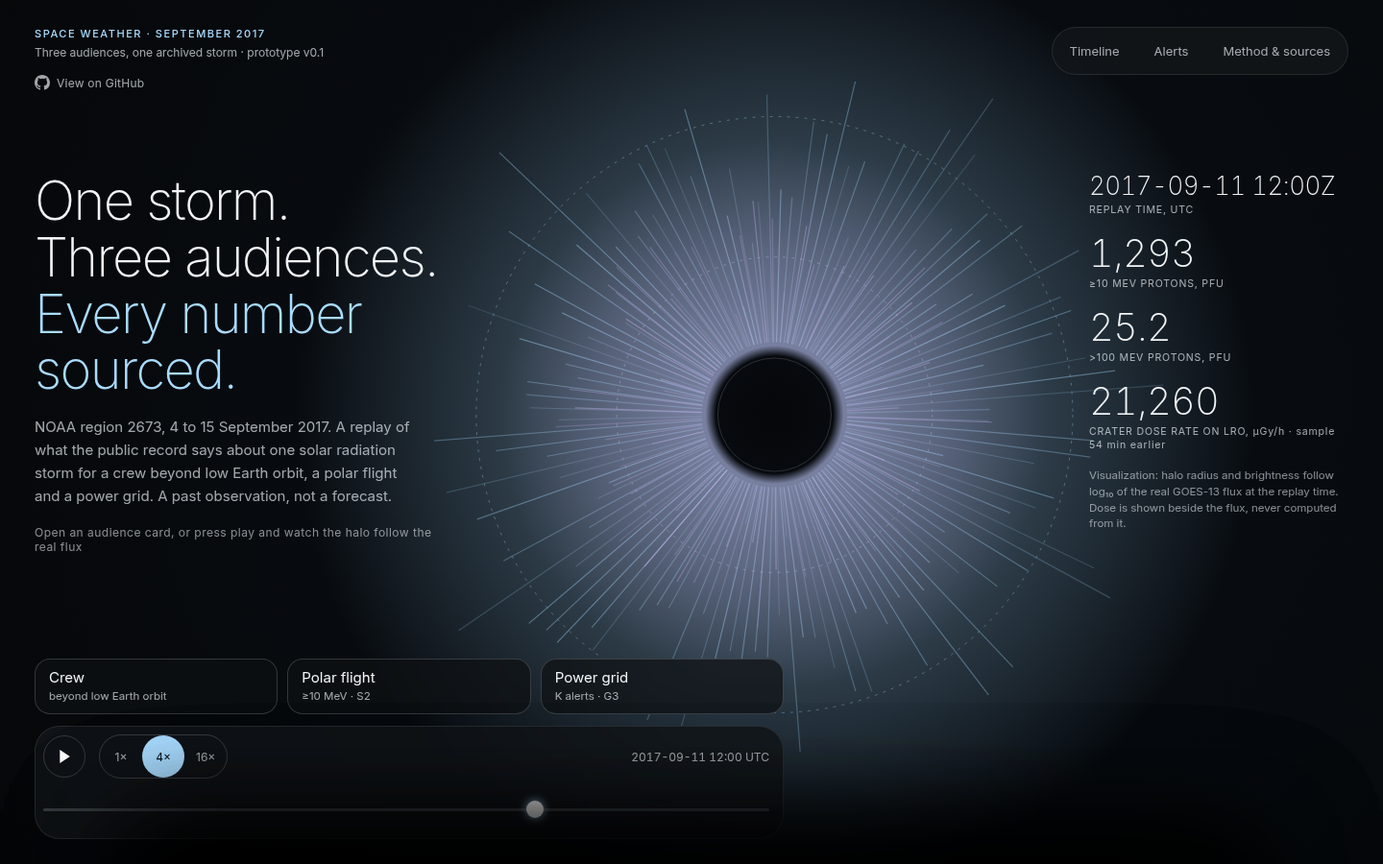
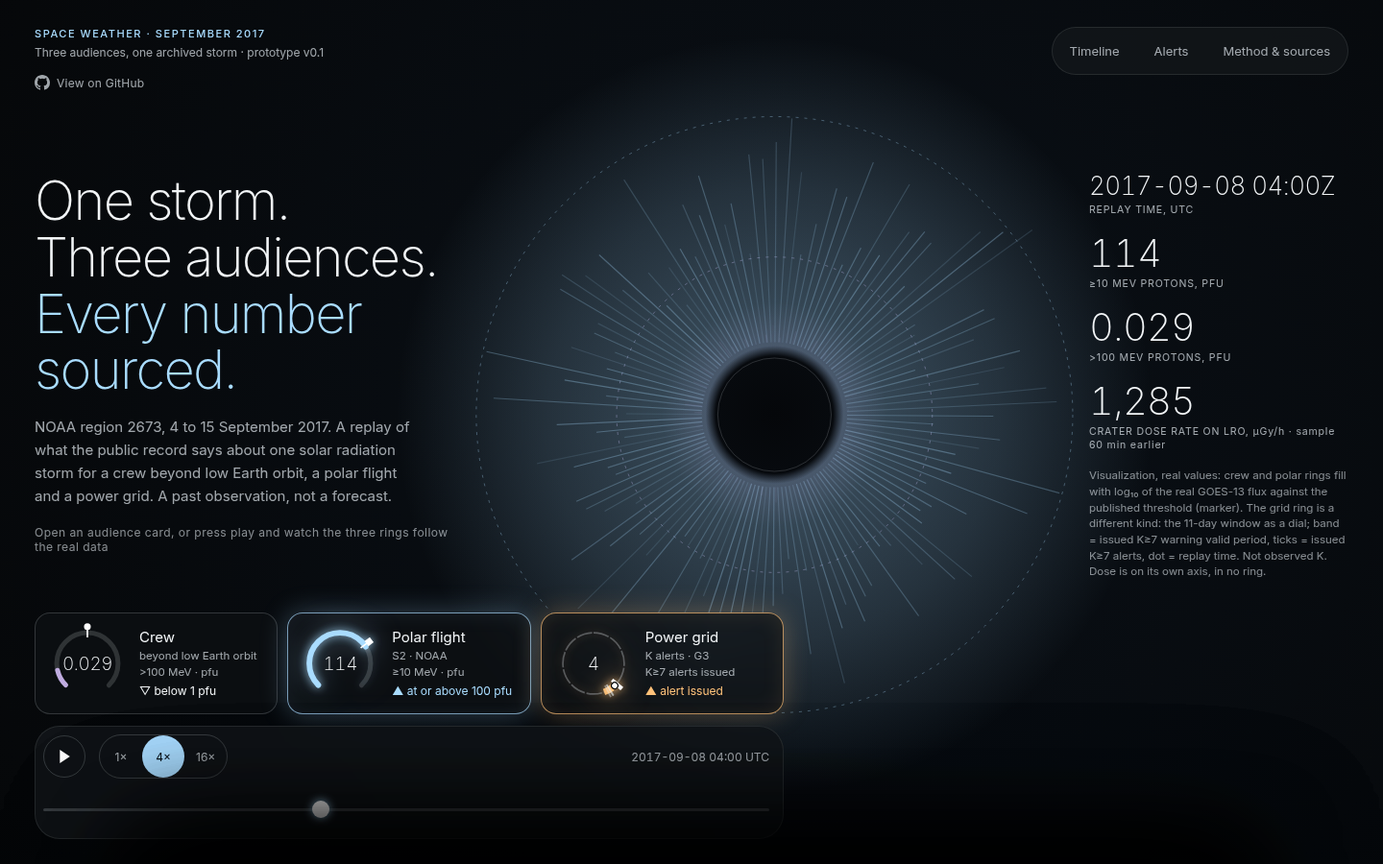
space-weather: three audience rings in the hero (crew, polar flight, grid)
Crew ring: real >100 MeV flux on a log axis with a marker at the 1 pfu
threshold. Polar ring: real >=10 MeV flux, marker at 100 pfu. Grid ring: a
different kind of state, an 11-day dial of issued K>=7 alerts and warning
valid periods (not observed K). Each ring shows label, value or state with
unit, threshold, an at-or-above glow, n/a with no data, and opens its card
(button, aria label, 44 px, focus ring). Dose stays out of every ring.
Writes only on change; reduced motion respected.

Add test_rings.js (13 fixed ?h= times, values recomputed from storm.json),
extend overflow and contrast tests, new screenshots, README.

diff --git a/space-weather/web/index.html b/space-weather/web/index.html
@@ -34,10 +34,30 @@ body.sheet-open .hero-copy,body.layer-open .hero-copy,body.sheet-open .stage,bod
 .live .k{display:block;font-size:10.5px;letter-spacing:.08em;text-transform:uppercase;color:var(--mute);margin-top:3px;line-height:1.35}
 .viz{font-size:11.5px;color:var(--faint);line-height:1.45}
 .auds{display:grid;grid-template-columns:repeat(3,minmax(0,1fr));gap:10px}
-.aud{min-height:56px;text-align:left;padding:10px 14px;border-radius:16px;border:1px solid var(--line2);background:var(--glass);backdrop-filter:blur(14px);-webkit-backdrop-filter:blur(14px);transition:border-color .25s,background-color .25s;min-width:0}
-.aud:hover{border-color:var(--ice);background:rgba(169,220,255,.07)}
+.aud{--c:var(--ice);min-height:56px;text-align:left;padding:10px 12px;border-radius:16px;border:1px solid var(--line2);background:var(--glass);backdrop-filter:blur(14px);-webkit-backdrop-filter:blur(14px);transition:border-color .35s,background-color .35s,box-shadow .5s;min-width:0;display:grid;grid-template-columns:auto minmax(0,1fr);align-items:center;gap:4px 12px;color:var(--ink)}
+.aud[data-aud=crew]{--c:#d9c2ff;--cr:217,194,255}.aud[data-aud=polar]{--c:#a9dcff;--cr:169,220,255}.aud[data-aud=grid]{--c:#ffc27a;--cr:255,194,122}
+.aud:hover{border-color:var(--c);background:rgba(var(--cr),.07)}
+.aud:focus-visible{outline:2px solid #fff;outline-offset:3px}
+.aud.hot{border-color:rgba(var(--cr),.7);box-shadow:0 0 28px rgba(var(--cr),.28),inset 0 0 22px rgba(var(--cr),.1)}
 .aud b{display:block;font-weight:400;font-size:15px;line-height:1.25}
-.aud span{display:block;font-size:11.5px;color:var(--mute);margin-top:2px;line-height:1.3}
+.aud .t span{display:block;font-size:11.5px;color:var(--mute);margin-top:2px;line-height:1.3}
+.aud .t .st{color:var(--ink);font-size:12px;margin-top:4px}
+.aud.hot .t .st{color:var(--c)}
+.gg{position:relative;display:block;width:84px;height:84px;flex:none}
+.gg svg{display:block;width:100%;height:100%;overflow:visible;transition:filter .5s}
+.aud.hot .gg svg{filter:drop-shadow(0 0 5px rgba(var(--cr),.85)) drop-shadow(0 0 14px rgba(var(--cr),.5))}
+.gg .rv{position:absolute;left:50%;top:50%;transform:translate(-50%,-50%);font-size:19px;line-height:1;white-space:nowrap;text-align:center;max-width:62%}
+.gg .rv .na{font-size:15px}
+.rg-track{fill:none;stroke:rgba(235,242,247,.16);stroke-width:6;stroke-linecap:round}
+.rg-fill{fill:none;stroke:var(--c);stroke-width:6;stroke-linecap:round;opacity:.85}
+.aud.hot .rg-fill{opacity:1;stroke-width:7}
+.rg-mk{stroke:#fff;stroke-width:2;fill:#fff}
+.rg-day{fill:none;stroke:rgba(235,242,247,.3);stroke-width:2}
+.rg-band{fill:none;stroke:var(--c);stroke-width:8;opacity:.4}
+.rg-band.on{opacity:.95}
+.rg-al{stroke:rgba(235,242,247,.4);stroke-width:2}.rg-al.on{stroke:#fff;stroke-width:2.5}
+.rg-head{fill:#fff;stroke:#050607;stroke-width:1.5}
+.aud[data-state=na] .rg-fill,.aud[data-state=na] .rg-band,.aud[data-state=na] .rg-head,.aud[data-state=na] .rg-mk,.aud[data-state=na] .rg-al{display:none}
 .dock{display:flex;align-items:center;gap:10px 14px;flex-wrap:wrap;padding:8px 14px 8px 8px;border-radius:26px;background:rgba(18,22,26,.82);border:1px solid var(--line);backdrop-filter:blur(14px);-webkit-backdrop-filter:blur(14px)}
 .dock .scrub{flex:1 1 100%;order:5}
 .play{width:44px;height:44px;min-width:44px}
@@ -90,7 +110,9 @@ code.h{font-family:ui-monospace,monospace;font-size:11px;color:#a9dcff;overflow-
   .live .n{font-size:40px}
   .live .viz{display:block}
 }
-@media (max-width:900px) and (max-height:700px){.viz{display:none}}
+@media (max-width:900px){.aud{padding:8px 6px;grid-template-columns:minmax(0,1fr);justify-items:center;text-align:center;gap:4px}.gg{width:72px;height:72px}.gg .rv{font-size:16px}.aud .t .opt{display:none}}
+@media (max-width:900px) and (max-height:700px){.viz{display:none}.aud .t .m{display:none}}
+@media (max-width:900px) and (max-height:780px){.live .it:has(#r-f10),.live .it:has(#r-f100){display:none}.live{grid-template-columns:minmax(0,1fr) minmax(0,1fr)}.live .it:has(#r-time){grid-column:1/-1}}
 @media (max-width:520px){
   .top{padding:14px 14px}
   .nav{width:100%}
@@ -98,12 +120,14 @@ code.h{font-family:ui-monospace,monospace;font-size:11px;color:#a9dcff;overflow-
   .hero-copy{top:166px;left:14px;right:14px}
   .hero-copy h1{font-size:28px}
   .stage{left:14px;right:14px}
-  .aud{padding:8px 10px}.aud b{font-size:14px}.aud span{font-size:11px}
+  .gg{width:64px;height:64px}.gg .rv{font-size:14px}.gg .rv .na{font-size:12px}
+  .aud{padding:8px 4px}.aud b{font-size:14px}.aud .t span{font-size:10.5px}.aud .t .st{font-size:10.5px;margin-top:3px}
   .dock{padding:6px 10px 6px 6px}
   .stamp{display:none}
   .live .k{font-size:10px}
   .viz{font-size:10.5px}
 }
+@media (max-width:900px) and (max-height:700px){.gg{width:54px;height:54px}.gg .rv{font-size:12px}.gg .rv .na{font-size:11px}.aud{padding:6px 4px;gap:2px}.aud .t .st{margin-top:2px}.stage{gap:8px}}
 </style>
 </head>
 <body>
@@ -122,7 +146,7 @@ code.h{font-family:ui-monospace,monospace;font-size:11px;color:#a9dcff;overflow-
 <section class="hero-copy">
   <h1>One storm.<br>Three audiences.<br><em>Every number sourced.</em></h1>
   <p>NOAA region 2673, 4 to 15 September 2017. A replay of what the public record says about one solar radiation storm for a crew beyond low Earth orbit, a polar flight and a power grid. A past observation, not a forecast.</p>
-  <div class="hint">Open an audience card, or press play and watch the halo follow the real flux</div>
+  <div class="hint">Open an audience card, or press play and watch the three rings follow the real data</div>
 </section>
 
 <div class="stage" id="stage">
@@ -131,12 +155,12 @@ code.h{font-family:ui-monospace,monospace;font-size:11px;color:#a9dcff;overflow-
     <div class="it"><span class="num n" id="r-f10">n/a</span><span class="k">≥10 MeV protons, pfu</span></div>
     <div class="it"><span class="num n" id="r-f100">n/a</span><span class="k">&gt;100 MeV protons, pfu</span></div>
     <div class="it"><span class="num n" id="r-dose">n/a</span><span class="k">CRaTER dose rate on LRO, <span style="text-transform:none">µGy/h</span> <span id="r-dose-age" style="text-transform:none"></span></span></div>
-    <div class="viz" style="grid-column:1/-1">Visualization: halo radius and brightness follow log₁₀ of the real GOES-13 flux at the replay time. Dose is shown beside the flux, never computed from it.</div>
+    <div class="viz" style="grid-column:1/-1">Visualization, real values: crew and polar rings fill with log₁₀ of the real GOES-13 flux against the published threshold (marker). The grid ring is a different kind: the 11-day window as a dial; band = issued K≥7 warning valid period, ticks = issued K≥7 alerts, dot = replay time. Not observed K. Dose is on its own axis, in no ring.</div>
   </div>
-  <div class="auds" role="group" aria-label="Audience cards">
-    <button class="aud" data-aud="crew"><b>Crew</b><span>beyond low Earth orbit</span></button>
-    <button class="aud" data-aud="polar"><b>Polar flight</b><span>≥10 MeV · S2</span></button>
-    <button class="aud" data-aud="grid"><b>Power grid</b><span>K alerts · G3</span></button>
+  <div class="auds" role="group" aria-label="Audience gauges: each opens its card">
+    <button class="aud" type="button" data-aud="crew" data-state="na"><span class="gg"><svg viewBox="0 0 100 100" aria-hidden="true" focusable="false"><circle class="rg-track" cx="50" cy="50" r="38" stroke-dasharray="179.07 300" transform="rotate(135 50 50)"/><circle class="rg-fill" cx="50" cy="50" r="38" stroke-dasharray="0 300" transform="rotate(135 50 50)"/><g class="rg-mk"><line x1="82" y1="50" x2="94" y2="50"/><circle cx="95.5" cy="50" r="3.2"/></g></svg><span class="rv num">n/a</span></span><span class="t"><b>Crew</b><span class="opt">beyond low Earth orbit</span><span class="m">>100 MeV · pfu</span><span class="st">n/a</span></span></button>
+    <button class="aud" type="button" data-aud="polar" data-state="na"><span class="gg"><svg viewBox="0 0 100 100" aria-hidden="true" focusable="false"><circle class="rg-track" cx="50" cy="50" r="38" stroke-dasharray="179.07 300" transform="rotate(135 50 50)"/><circle class="rg-fill" cx="50" cy="50" r="38" stroke-dasharray="0 300" transform="rotate(135 50 50)"/><g class="rg-mk"><line x1="82" y1="50" x2="94" y2="50"/><rect x="92" y="47" width="6" height="6"/></g></svg><span class="rv num">n/a</span></span><span class="t"><b>Polar flight</b><span class="opt">S2 · NOAA</span><span class="m">≥10 MeV · pfu</span><span class="st">n/a</span></span></button>
+    <button class="aud" type="button" data-aud="grid" data-state="na"><span class="gg"><svg viewBox="0 0 100 100" aria-hidden="true" focusable="false"><circle class="rg-day" cx="50" cy="50" r="38"/><g class="rg-bands"></g><g class="rg-als"></g><g class="rg-hd"><circle class="rg-head" cx="50" cy="12" r="4"/></g></svg><span class="rv num">n/a</span></span><span class="t"><b>Power grid</b><span class="opt">K alerts · G3</span><span class="m">K≥7 alerts issued</span><span class="st">n/a</span></span></button>
   </div>
   <div class="dock" id="dock" role="group" aria-label="Replay of the 11-day window">
     <button class="play js-play" id="play" type="button" aria-label="Pause replay"><svg viewBox="0 0 10 12" aria-hidden="true"><path class="playp" d="M0 0H3.5V12H0ZM6.5 0H10V12H6.5Z" fill="#fff"/></svg></button>
@@ -213,7 +237,7 @@ code.h{font-family:ui-monospace,monospace;font-size:11px;color:#a9dcff;overflow-
     <div class="grid2">
       <div class="box"><h4><span class="tag-r">Real</span> · flux, alerts, dose</h4><p>GOES-13 flux samples, the SWPC alerts and warnings, and the CRaTER dose rate are read from the archived files below by the repository's own code and exported unchanged. Samples with a non-zero quality flag or no value are gaps.</p></div>
       <div class="box"><h4><span class="tag-r">Real</span> · hours, first and last, peaks</h4><p>Counted from the exported series at 5-minute samples: “at or above” the published threshold. First to last is a span, not a continuous stretch; the number of separate stretches is shown beside it.</p></div>
-      <div class="box"><h4><span class="tag-i">Illustrative</span> · hero halo</h4><p>A procedural drawing. Radius and brightness follow log₁₀ of the real flux at the replay time; the rays are decoration. It is not an image of radiation or of the magnetosphere.</p></div>
+      <div class="box"><h4><span class="tag-i">Illustrative</span> · hero halo and rings</h4><p>The three audience rings (crew and polar fill with log₁₀ of the real flux against the published threshold marker; the grid ring is an 11-day dial of issued K≥7 alerts and the warning valid period, not observed K) and the procedural halo are drawings with real values. Radius and brightness follow log₁₀ of the real flux at the replay time; the rays are decoration. It is not an image of radiation or of the magnetosphere.</p></div>
       <div class="box"><h4><span class="tag-i">Illustrative</span> · replay speed</h4><p>1× is 3 hours of storm per second, 4× is 12, 16× is 48. The replay loops over the 11 days. No latency is measured: the data are archives.</p></div>
     </div>
 
@@ -298,7 +322,7 @@ var hoverT=null;
 function tick(t){
   if(!userSeek&&+scrub.value!==slotAt(t))scrub.value=slotAt(t);
   readouts(t,'r'); readouts(hoverT!=null?hoverT:t,'t');
-  moveHead(t); drawHero(t);
+  moveHead(t); drawHero(t); gauges(t);
   if(sel)moveMini(t);
 }
 
@@ -342,6 +366,71 @@ function drawHero(t){
   c.fillStyle=core;c.beginPath();c.arc(cx,cy,r0,0,6.2832);c.fill();
   c.strokeStyle='rgba(235,242,247,.16)';c.lineWidth=1;c.beginPath();c.arc(cx,cy,r0*.82,0,6.2832);c.stroke();
 }
+
+
+/* ---------------- audience gauges (three rings, one per audience; real values, illustrative styling) ---------------- */
+var RING_C=2*Math.PI*38, RING_SW=0.75*RING_C;
+var GA={
+  crew:{arr:G100,th:'crew',lo:0.01,hi:100,unit:'pfu',ch:'>100 MeV',name:'Crew beyond low Earth orbit'},
+  polar:{arr:G10,th:'polar',lo:0.1,hi:2000,unit:'pfu',ch:'≥10 MeV',name:'Polar flight'}};
+var GB={}; // cached nodes and last-written values: the DOM is written only when a value changes (low CPU)
+function gnode(k){if(!GB[k]){var b=$('.aud[data-aud="'+k+'"]');GB[k]={b:b,rv:$('.rv',b),st:$('.st',b),fill:$('.rg-fill',b),mk:$('.rg-mk',b),last:{}}}return GB[k]}
+function gset(n,key,val,fn){if(n.last[key]!==val){n.last[key]=val;fn(val)}}
+function fracOf(v,lo,hi){return Math.max(0,Math.min(1,(L10(v)-L10(lo))/(L10(hi)-L10(lo))))}
+function gauge(k,t){
+  var g=GA[k],n=gnode(k),v=fluxAt(g.arr,t),th=TH[g.th],thv=th&&ok(th.value)?th.value:null,state='na',txt,rv,fr=0;
+  if(thv!=null)gset(n,'mk',fracOf(thv,g.lo,g.hi),function(f){n.mk.setAttribute('transform','rotate('+(135+270*f).toFixed(2)+' 50 50)')});
+  n.mk.style.display=thv==null?'none':'';
+  if(v==null){rv=NA;txt='n/a';state='na';}
+  else{fr=fracOf(v,g.lo,g.hi);rv=fnum(v);
+    if(thv==null){state='below';txt='threshold n/a';}
+    else if(v>=thv){state='above';txt='▲ at or above '+fnum(thv,0)+' pfu';}
+    else{state='below';txt='▽ below '+fnum(thv,0)+' pfu';}}
+  var q=Math.round(fr*500)/500;
+  gset(n,'fill',q,function(x){n.fill.setAttribute('stroke-dasharray',(x*RING_SW).toFixed(2)+' 300')});
+  gset(n,'rv',rv,function(x){n.rv.innerHTML=x});
+  gset(n,'txt',txt,function(x){n.st.textContent=x});
+  gset(n,'state',state,function(x){n.b.dataset.state=x;n.b.classList.toggle('hot',x==='above')});
+  n.b.dataset.value=v==null?'n/a':String(v);
+  gset(n,'aria',state+rv+txt,function(){n.b.setAttribute('aria-label',g.name+': '+g.ch+' protons '+(v==null?'n/a':plain(rv)+' '+g.unit)+'; '+(state==='na'?'no data at this time':(thv==null?'threshold n/a':(state==='above'?'at or above':'below')+' the published '+fnum(thv,0)+' pfu threshold'))+'. Open the '+g.name+' card.')});
+}
+var GRID=null;
+function buildGrid(){
+  var b=gnode('grid').b, NS='http://www.w3.org/2000/svg';
+  var iss=(ALERTS.grid_issued||[]).map(function(a){return (Date.parse(a.start)-T0)/1000}).filter(isFinite).sort(function(a,b){return a-b});
+  var wn=(ALERTS.grid_warnings||[]).map(function(w){return {s:(Date.parse(w.start)-T0)/1000,e:(Date.parse(w.end)-T0)/1000}}).filter(function(w){return isFinite(w.s)&&isFinite(w.e)});
+  var M=GRID={iss:iss,wn:wn};
+  $('.rg-day',b).setAttribute('stroke-dasharray',(RING_C/11-2.2).toFixed(2)+' 2.2');
+  $('.rg-day',b).setAttribute('transform','rotate(-90 50 50)');
+  var bg=$('.rg-bands',b),ag=$('.rg-als',b);
+  wn.forEach(function(w){var c=document.createElementNS(NS,'circle');c.setAttribute('class','rg-band');c.setAttribute('cx',50);c.setAttribute('cy',50);c.setAttribute('r',38);
+    var s0=Math.max(0,w.s)/SPAN,e0=Math.min(SPAN,w.e)/SPAN,len=Math.max(0.004,e0-s0)*RING_C;
+    c.setAttribute('transform','rotate(-90 50 50)');c.setAttribute('stroke-dasharray',len.toFixed(2)+' '+RING_C.toFixed(2));c.setAttribute('stroke-dashoffset',(-s0*RING_C).toFixed(2));bg.appendChild(c);w.el=c});
+  M.iss=iss.map(function(t){var l=document.createElementNS(NS,'line');l.setAttribute('class','rg-al');l.setAttribute('x1',31);l.setAttribute('x2',47);l.setAttribute('y1',0);l.setAttribute('y2',0);
+    l.setAttribute('transform','translate(50 50) rotate('+(-90+360*t/SPAN).toFixed(2)+')');ag.appendChild(l);return {t:t,el:l,on:false}});
+  return M;
+}
+function gridGauge(t){
+  var n=gnode('grid'),M=GRID||buildGrid();
+  var have=M.iss.length||M.wn.length, hd=$('.rg-hd',n.b);
+  var cnt=0,valid=false,state='na',txt='n/a',rv=NA;
+  if(have){
+    M.iss.forEach(function(a){var on=a.t<=t;if(on)cnt++;if(a.on!==on){a.on=on;a.el.classList.toggle('on',on)}});
+    M.wn.forEach(function(w){var on=t>=w.s&&t<=w.e;if(on)valid=true;if(w.on!==on){w.on=on;w.el.classList.toggle('on',on)}});
+    rv=String(cnt);
+    if(cnt>0&&valid){state='alert';txt='▲ alert issued'}
+    else if(valid){state='warning';txt='◆ warning valid'}
+    else if(cnt>0){state='ended';txt='○ warning ended'}
+    else{state='none';txt='○ none issued yet'}
+    gset(n,'hd',Math.round(slotAt(t)*STEP/SPAN*720)/2,function(a){hd.setAttribute('transform','rotate('+a+' 50 50)')});
+  }
+  gset(n,'rv',rv,function(x){n.rv.innerHTML=x});
+  gset(n,'txt',txt,function(x){n.st.textContent=x});
+  gset(n,'state',state,function(x){n.b.dataset.state=x;n.b.classList.toggle('hot',x==='alert')});
+  n.b.dataset.value=have?String(cnt):'n/a';
+  gset(n,'aria',state+rv,function(){n.b.setAttribute('aria-label','Power grid: '+(have?cnt+' of '+M.iss.length+' issued K at or above 7 alerts so far; '+(state==='alert'?'an alert is issued and a K at or above 7 warning is valid':state==='warning'?'a K at or above 7 warning is valid, no alert issued yet':state==='ended'?'the warning valid period has ended':'no K at or above 7 product yet')+'. These are issued products, not observed K.':'n/a, no issued products')+' Open the power grid card.')});
+}
+function gauges(t){gauge('crew',t);gauge('polar',t);gridGauge(t)}
 
 /* ---------------- charts ---------------- */
 var CH={ml:44,mr:10};

diff --git a/space-weather/web/test_rings.js b/space-weather/web/test_rings.js
@@ -1,0 +1,117 @@
+// Checks for the three audience rings in the hero (crew, polar flight, power grid).
+// Every expected value is recomputed here from web/data/storm.json, independently of the page code.
+// usage: node --experimental-websocket web/test_rings.js
+const path=require('path'),fs=require('fs'),assert=require('assert'),{launch,sleep}=require('./cdp.js');
+const FILE='file://'+path.resolve(__dirname,'index.html');
+const D=JSON.parse(fs.readFileSync(path.join(__dirname,'data/storm.json'),'utf8'));
+let n=0; const ok=(c,m)=>{n++;assert.ok(c,m);console.log('ok',m)};
+async function fresh(b,url,ms){await b.goto('about:blank',150);await b.goto(url,ms||800);}
+// number formatting the page uses for readouts (3 decimals under 1, 2 under 10, 1 under 100, none from 100, thousands commas)
+const fmt=v=>{const a=Math.abs(v),p=a>=100?0:a>=10?1:a>=1?2:3;const q=v.toFixed(p).split('.');return q[0].replace(/\B(?=(\d{3})+(?!\d))/g,',')+(q[1]?'.'+q[1]:'')};
+const STEP=D.series.step_seconds, T0=Date.parse(D.series.t0), SPAN=D.series.slots*STEP;
+const slot=h=>Math.max(0,Math.min(D.series.slots-1,Math.round(h*3600/STEP)));
+const frac=(v,lo,hi)=>Math.max(0,Math.min(1,(Math.log10(v)-Math.log10(lo))/(Math.log10(hi)-Math.log10(lo))));
+const SW=0.75*2*Math.PI*38;
+function expectFlux(arr,thr,lo,hi,h){const v=arr[slot(h)];if(v==null)return {v:null,state:'na',text:'n/a'};
+  return {v,state:v>=thr?'above':'below',text:fmt(v),frac:frac(v,lo,hi)}}
+function expectGrid(h){const t=slot(h)*STEP;
+  const iss=D.alerts.grid_issued.map(a=>(Date.parse(a.start)-T0)/1000), wn=D.alerts.grid_warnings.map(w=>[(Date.parse(w.start)-T0)/1000,(Date.parse(w.end)-T0)/1000]);
+  const cnt=iss.filter(x=>x<=t).length, valid=wn.some(w=>t>=w[0]&&t<=w[1]);
+  return {cnt,valid,state:cnt>0&&valid?'alert':valid?'warning':cnt>0?'ended':'none',total:iss.length}}
+const readRing=k=>`(()=>{const b=document.querySelector('.aud[data-aud="${k}"]');return {state:b.dataset.state,value:b.dataset.value,rv:b.querySelector('.rv').textContent,st:b.querySelector('.st').textContent,txt:b.innerText,aria:b.getAttribute('aria-label'),hot:b.classList.contains('hot'),dash:(b.querySelector('.rg-fill')||{getAttribute(){return null}}).getAttribute('stroke-dasharray'),on:b.querySelectorAll('.rg-al.on').length,als:b.querySelectorAll('.rg-al').length,bands:b.querySelectorAll('.rg-band').length,bandOn:b.querySelectorAll('.rg-band.on').length}})()`;
+(async()=>{
+  const b=await launch(); const errors=[];
+  b.on(d=>{if(d.method==='Runtime.exceptionThrown')errors.push('exc');if(d.method==='Runtime.consoleAPICalled'&&d.params.type==='error')errors.push('console')});
+  await b.viewport(1440,900);
+  // hours chosen to hit every state: before anything, polar only (h 41-47 and 100), grid alert, warning valid without alert, warning ended, crew + polar together, both back below
+  const HOURS=[0,20,41.5,95.2,98,100,114,118,140,170,200,225,250];
+  for(const h of HOURS){
+    await fresh(b,FILE+'#?h='+h+'&paused');
+    const c=expectFlux(D.series.gt100.values,D.thresholds.crew.value,0.01,100,h), p=expectFlux(D.series.gt10.values,D.thresholds.polar.value,0.1,2000,h), g=expectGrid(h);
+    const rc=await b.ev(readRing('crew')), rp=await b.ev(readRing('polar')), rg=await b.ev(readRing('grid'));
+    ok(rc.rv===c.text&&rc.state===c.state&&+rc.value===c.v,`h=${h}: crew ring shows >100 MeV ${c.text} pfu (${c.state}), real sample ${c.v}`);
+    ok(rp.rv===p.text&&rp.state===p.state&&+rp.value===p.v,`h=${h}: polar ring shows ≥10 MeV ${p.text} pfu (${p.state}), real sample ${p.v}`);
+    ok(Math.abs(parseFloat(rc.dash)-c.frac*SW)<0.6&&Math.abs(parseFloat(rp.dash)-p.frac*SW)<0.6,`h=${h}: ring fills follow log10 of the flux (${(c.frac*100).toFixed(0)}% / ${(p.frac*100).toFixed(0)}%)`);
+    ok(rc.hot===(c.state==='above')&&rp.hot===(p.state==='above'),`h=${h}: glow only when at or above the threshold (crew ${rc.hot}, polar ${rp.hot})`);
+    ok(/1 pfu/.test(rc.st)&&/100 pfu/.test(rp.st)&&(c.state==='above'?/at or above/:/below/).test(rc.st)&&(p.state==='above'?/at or above/:/below/).test(rp.st),`h=${h}: status lines name the threshold: "${rc.st}" / "${rp.st}"`);
+    ok(rg.state===g.state&&rg.rv===String(g.cnt)&&rg.on===g.cnt&&rg.als===g.total&&rg.hot===(g.state==='alert')&&(rg.bandOn>0)===g.valid,`h=${h}: grid ring state ${g.state}, ${g.cnt} of ${g.total} K≥7 alerts issued, warning valid ${g.valid} (not flux, not observed K)`);
+    ok(!/µGy|dose/i.test(rc.txt+rp.txt+rg.txt),`h=${h}: no dose in any ring`);
+    ok(!/pfu/.test(rg.txt),`h=${h}: the grid ring shows no flux unit`);
+  }
+  // states really are reached by the chosen hours
+  const seen=new Set(HOURS.map(h=>expectGrid(h).state)); ok(['none','alert','warning','ended'].every(s=>seen.has(s)),'the fixed times cover every grid state: '+[...seen].join(','));
+  ok(HOURS.some(h=>{const c=expectFlux(D.series.gt100.values,1,0.01,100,h),p=expectFlux(D.series.gt10.values,100,0.1,2000,h);return c.state==='above'&&p.state==='above'}),'a fixed time has crew and polar both at or above their thresholds');
+  ok(HOURS.some(h=>expectFlux(D.series.gt100.values,1,0.01,100,h).state==='below'&&expectFlux(D.series.gt10.values,100,0.1,2000,h).state==='above'),'a fixed time has polar at or above while crew is below (rings are independent)');
+  // ---- labels, units, honesty text, distinguishable without colour
+  await fresh(b,FILE+'#?h=100&paused');
+  const all=await b.ev(`document.querySelector('.auds').innerText`);
+  ok(/Crew/.test(all)&&/beyond low Earth orbit/.test(all)&&/Polar flight/.test(all)&&/Power grid/.test(all),'each ring has its audience label');
+  ok(/>100 MeV · pfu/.test(all)&&/≥10 MeV · pfu/.test(all)&&/K≥7 alerts issued/.test(all),'each ring names its quantity and unit');
+  const viz=await b.ev(`document.querySelector('.viz').innerText`);
+  ok(/Not observed K/.test(viz)&&/warning valid period/.test(viz)&&/own axis, in no ring/.test(viz)&&/real/i.test(viz),'honesty note: grid band is issued warning period not observed K, dose is in no ring');
+  ok(await b.ev(`(()=>{const m=['crew','polar','grid'].map(k=>{const b=document.querySelector('.aud[data-aud="'+k+'"]');return b.querySelector('.rg-mk')?b.querySelector('.rg-mk').innerHTML.replace(/[\\d.]+/g,'#'):'dial'});return new Set(m).size===3})()`),'shapes differ without colour: crew marker is a dot, polar a square, grid a dial of ticks');
+  ok(await b.ev(`document.querySelector('.aud[data-aud=grid] .rg-day')!==null&&document.querySelector('.aud[data-aud=grid] .rg-fill')===null&&document.querySelector('.aud[data-aud=crew] .rg-fill')!==null`),'grid ring is a different kind of state (dial, band, ticks), not a flux fill');
+  ok(await b.ev(`['crew','polar','grid'].every(k=>{const b=document.querySelector('.aud[data-aud="'+k+'"]');return /^(Crew|Polar|Power)/.test(b.getAttribute('aria-label'))&&/Open the/.test(b.getAttribute('aria-label'))&&b.tagName==='BUTTON'})`),'rings are buttons with aria labels naming value, state and the card they open');
+  ok((await b.ev(readRing('grid'))).aria.includes('not observed K'),'grid aria label says issued products, not observed K');
+  // ---- targets, tap, keyboard, focus
+  for(const w of [1440,768,390,320]){await b.viewport(w,w>500?900:700);await fresh(b,FILE+'#?h=100&paused');
+    ok(await b.ev(`[...document.querySelectorAll('.aud')].every(e=>{const r=e.getBoundingClientRect();return r.width>=44&&r.height>=44})`),w+' px: ring targets are at least 44x44');
+    ok(await b.ev(`[...document.querySelectorAll('.aud')].every(e=>{const r=e.getBoundingClientRect();return e.scrollWidth<=e.clientWidth+1&&[...e.querySelectorAll('*')].every(c=>{const q=c.getBoundingClientRect();return (!q.width&&!q.height)||(q.left>=r.left-1&&q.right<=r.right+1)})})`),w+' px: nothing inside a ring button is clipped or overflows it');}
+  await b.viewport(1440,900);
+  const TITLE={crew:'Crew beyond low Earth orbit',polar:'Polar flight',grid:'Power grid'};
+  for(const k of ['crew','polar','grid']){
+    await fresh(b,FILE+'#?h=100&paused');
+    // real pointer tap at the centre of the ring
+    const pt=await b.ev(`(()=>{const r=document.querySelector('.aud[data-aud="${k}"] svg').getBoundingClientRect();return {x:r.left+r.width/2,y:r.top+r.height/2}})()`);
+    await b.send('Input.dispatchMouseEvent',{type:'mousePressed',x:pt.x,y:pt.y,button:'left',clickCount:1});await b.send('Input.dispatchMouseEvent',{type:'mouseReleased',x:pt.x,y:pt.y,button:'left',clickCount:1});await sleep(900);
+    ok(await b.ev(`document.querySelector('#sheet').classList.contains('open')&&document.querySelector('#card h2').textContent`)===TITLE[k],'tapping the '+k+' ring opens the '+TITLE[k]+' card');
+    ok(await b.ev('location.hash')==='#audience/'+k,k+': hash is #audience/'+k);
+    await b.send('Input.dispatchKeyEvent',{type:'keyDown',key:'Escape',code:'Escape',windowsVirtualKeyCode:27});await sleep(900);
+    ok(await b.ev(`document.activeElement.dataset.aud`)===k,k+': Escape returns focus to the ring');
+    // keyboard: Enter and Space
+    for(const [key,code,vk,txt] of [['Enter','Enter',13,'\r'],[' ','Space',32,' ']]){
+      await b.ev(`document.querySelector('.aud[data-aud="${k}"]').focus()`);
+      await b.send('Input.dispatchKeyEvent',{type:'keyDown',key,code,windowsVirtualKeyCode:vk,text:txt});await b.send('Input.dispatchKeyEvent',{type:'keyUp',key,code,windowsVirtualKeyCode:vk});await sleep(900);
+      ok(await b.ev(`document.querySelector('#sheet').classList.contains('open')&&document.querySelector('#card h2').textContent`)===TITLE[k],k+': '+(code)+' opens '+TITLE[k]);
+      await b.ev(`document.querySelector('#close').click()`);await sleep(800);
+    }
+  }
+  // Tab order and visible focus ring
+  await fresh(b,FILE+'#?h=100&paused');
+  const tab=async()=>{await b.send('Input.dispatchKeyEvent',{type:'keyDown',key:'Tab',code:'Tab',windowsVirtualKeyCode:9});await b.send('Input.dispatchKeyEvent',{type:'keyUp',key:'Tab',code:'Tab',windowsVirtualKeyCode:9})};
+  await b.ev(`document.querySelector('.nav button:last-child').focus()`);
+  const order=[]; for(let i=0;i<3;i++){await tab();order.push(await b.ev(`document.activeElement.dataset.aud||document.activeElement.id||document.activeElement.tagName`));}
+  ok(order.join()==='crew,polar,grid','keyboard Tab reaches the three rings in order: '+order.join(' > '));
+  await b.ev(`document.querySelector('.aud[data-aud=crew]').focus()`);
+  const f2=await b.ev(`(()=>{const e=document.querySelector('.aud[data-aud=crew]'),c=getComputedStyle(e);return {fv:e.matches(':focus-visible'),ow:c.outlineWidth,os:c.outlineStyle}})()`);
+  ok(f2.fv&&f2.os==='solid'&&parseFloat(f2.ow)>=2,'a focused ring shows a visible 2 px outline: '+JSON.stringify(f2));
+  // ---- CPU: paused page writes nothing; playing page only writes changed values and respects the fps cap
+  await fresh(b,FILE+'#?h=100&paused');
+  await b.ev(`window.__m=0;new MutationObserver(l=>{__m+=l.length}).observe(document.querySelector('.auds'),{subtree:true,childList:true,attributes:true,characterData:true})`);
+  await sleep(1500); ok(await b.ev('__m')===0,'a paused page makes zero DOM writes in the rings');
+  await fresh(b,FILE+'#?h=0');
+  await b.ev(`window.__m=0;new MutationObserver(l=>{__m+=l.length}).observe(document.querySelector('.auds'),{subtree:true,childList:true,attributes:true,characterData:true})`);
+  await sleep(2000); const m=await b.ev('__m'); ok(m<=600,'playing 4x: ring DOM writes stay bounded ('+m+' in 2 s)');
+  // ---- hidden tab: no ring writes
+  await b.ev(`Object.defineProperty(document,'hidden',{configurable:true,get:()=>true});document.dispatchEvent(new Event('visibilitychange'))`);await sleep(400);
+  await b.ev(`window.__m=0`);await sleep(1200);ok(await b.ev('__m')===0,'a hidden tab stops ring updates');
+  // ---- reduced motion: no transition longer than the 0.01 s reduced-motion override, no animation
+  await b.send('Emulation.setEmulatedMedia',{features:[{name:'prefers-reduced-motion',value:'reduce'}]});
+  await fresh(b,FILE+'#?h=170&paused');
+  ok(await b.ev(`[...document.querySelectorAll('.aud, .aud svg')].every(e=>{const c=getComputedStyle(e);return parseFloat(c.transitionDuration)<=0.011&&c.animationName==='none'})`),'prefers-reduced-motion: ring glow transitions are effectively off and nothing animates');
+  await b.send('Emulation.setEmulatedMedia',{features:[{name:'prefers-reduced-motion',value:'no-preference'}]});
+  ok(errors.length===0,'no console errors '+errors.join('|'));
+  // ---- n/a: null every sample, alert and threshold; rings must say n/a and never 0
+  await b.send('Page.addScriptToEvaluateOnNewDocument',{source:`(()=>{let v;Object.defineProperty(window,'STORM',{configurable:true,get(){return v},set(x){
+    x.series.gt10.values=x.series.gt10.values.map(()=>null);x.series.gt100.values=x.series.gt100.values.map(()=>null);
+    x.alerts.grid_issued=[];x.alerts.grid_warnings=[];x.thresholds.crew=null;x.thresholds.polar=null;v=x}})})()`});
+  await fresh(b,FILE+'#?h=100&paused',900);
+  for(const k of ['crew','polar','grid']){const r=await b.ev(readRing(k));
+    ok(r.state==='na'&&r.rv==='n/a'&&r.st==='n/a'&&r.value==='n/a'&&!r.hot&&!/\b0\b/.test(r.txt),k+' ring with no data: n/a, no glow, no 0 ('+JSON.stringify(r.txt)+')');
+    ok(/n\/a|no data|Open/.test(r.aria),k+' ring aria label still valid with no data');}
+  ok(await b.ev(`document.querySelector('.aud[data-aud=crew] .rg-fill').getBoundingClientRect().width>=0&&getComputedStyle(document.querySelector('.aud[data-aud=crew] .rg-fill')).display==='none'`),'no data: ring fill is not drawn');
+  await b.ev(`document.querySelector('.aud[data-aud=grid]').click()`);await sleep(800);
+  ok(await b.ev(`document.querySelector('#sheet').classList.contains('open')`),'a ring with no data still opens its card');
+  ok(errors.length===0,'no console errors with null data '+errors.join('|'));
+  b.close(); console.log('rings ok',n,'checks'); process.exit(0);
+})().catch(e=>{console.error('FAIL',e.message);process.exit(1)});

diff --git a/space-weather/web/test_overflow.js b/space-weather/web/test_overflow.js
@@ -2,10 +2,11 @@
 //  - no horizontal overflow of the document, the open panel, or any element (except the intentional .tablewrap scrollers)
 //  - fixed controls on the home view do not overlap each other (brand, GitHub link, nav buttons, live readouts, audience buttons, play, speed, scrubber, hero copy)
 //  - tap targets are at least 44x44 CSS px
+//  - the three audience rings (gauge buttons): nothing inside one is clipped or spills out, and no ring text overlaps another's
 // usage: node --experimental-websocket web/test_overflow.js
 const path=require('path'), {launch,sleep}=require('./cdp.js');
 const base='file://'+path.resolve(__dirname,'index.html');
-const WIDTHS=[320,360,390,430,768];
+const WIDTHS=[320,360,390,430,768,900,901,1024];
 const PHONES=[[320,640],[360,740],[390,844]];   // real phone heights for the home-view overlap check
 const STATES=[['home','#?h=120&paused',null],['crew','#audience/crew?h=130&paused','#sheet'],['polar','#audience/polar?h=140&paused','#sheet'],['grid','#audience/grid?h=100&paused','#sheet'],
   ['timeline','#timeline?h=130&paused','#timeline'],['alerts','#alerts?h=130&paused','#alerts'],['method','#method?h=130&paused','#method']];
@@ -30,6 +31,11 @@ const overlap=`(()=>{
   for(let i=0;i<items.length;i++)for(let j=i+1;j<items.length;j++){const a=items[i].r,b=items[j].r; if(items[i].e.contains(items[j].e)||items[j].e.contains(items[i].e))continue;
     if(a.left<b.right-0.5&&b.left<a.right-0.5&&a.top<b.bottom-0.5&&b.top<a.bottom-0.5)bad.push(items[i].n+' x '+items[j].n);}
   const small=[]; for(const s of ['.nav button','.aud','#play','#seg button','#scrub','.brand .ghlink']){for(const e of document.querySelectorAll(s)){const r=e.getBoundingClientRect();if(r.width&&(r.height<43.5||r.width<43.5))small.push(s+' '+r.width.toFixed(1)+'x'+r.height.toFixed(1));}}
+  const gfit=[...document.querySelectorAll('.aud')].flatMap(e=>{const r=e.getBoundingClientRect(),o=[];if(e.scrollWidth>e.clientWidth+1)o.push('aud scrollWidth');
+    for(const c of e.querySelectorAll('*')){const q=c.getBoundingClientRect();if(!q.width&&!q.height)continue;if(q.left<r.left-1||q.right>r.right+1||q.top<r.top-1||q.bottom>r.bottom+1)o.push(e.dataset.aud+' '+c.tagName+'.'+(c.className.baseVal!==undefined?c.className.baseVal:c.className));}
+    const ts=[...e.querySelectorAll('.t b,.t span,.rv')].filter(x=>x.getBoundingClientRect().width);for(let i=0;i<ts.length;i++)for(let j=i+1;j<ts.length;j++){const a=ts[i].getBoundingClientRect(),b=ts[j].getBoundingClientRect();if(a.left<b.right-.5&&b.left<a.right-.5&&a.top<b.bottom-.5&&b.top<a.bottom-.5)o.push(e.dataset.aud+' text overlap '+ts[i].className+'/'+ts[j].className)}
+    return o});
+  bad.push(...gfit);
   const vh=innerHeight, off=items.filter(x=>x.r.bottom>vh+0.5||x.r.top<-0.5).map(x=>x.n);
   return {bad,small,off};
 })()`;

diff --git a/space-weather/web/test_contrast.js b/space-weather/web/test_contrast.js
@@ -15,6 +15,11 @@ const check=(name,t)=>{const {rgb,a}=parse(t);for(const [k,bg] of Object.entries
 for(const v of ['--ink','--mute','--faint','--ice']){const m=root.match(new RegExp(v+':\\s*(rgba?\\([^)]*\\)|#[0-9a-fA-F]{6})'));assert.ok(m,v);check(v,m[1]);}
 // accents used for text: n/a amber, "real" green, chart label colours
 for(const [name,hex] of [['n/a amber','#ffc27a'],['real green','#8fe3b0'],['10 MeV','#a9dcff'],['100 MeV','#d9c2ff']])check(name,hex);
+// the three ring colours (crew violet, polar ice, grid amber) are also used for small status text on a ring button, and as non-text graphics (3:1 against the page)
+const html=fs.readFileSync(path.join(__dirname,'index.html'),'utf8');
+for(const k of ['crew','polar','grid']){const m=html.match(new RegExp('\\.aud\\[data-aud='+k+'\\]\\{--c:(#[0-9a-fA-F]{6})'));assert.ok(m,'ring colour for '+k);check('ring '+k,m[1]);
+  const r=ratio(parse(m[1]).rgb,bgs['page #050607']);n++;assert.ok(r>=3,'ring '+k+' graphic vs page '+r.toFixed(2));console.log(('ring '+k).padEnd(10),'graphic 3:1'.padEnd(14),r.toFixed(2));}
+{const r=ratio([255,255,255],bgs['page #050607']);n++;assert.ok(r>=3,'marker white vs page');}
 const al=v=>+(root.match(new RegExp(v+':\\s*rgba\\([^)]*,\\s*([\\d.]+)\\)'))||[])[1];
 assert.ok(al('--faint')<al('--mute'),'--faint must stay dimmer than --mute');
 // the page itself must not introduce dimmer text colours than --faint

diff --git a/space-weather/web/README.md b/space-weather/web/README.md
@@ -1,6 +1,6 @@
 # Space weather web view
 
-One static page: a full-bleed, data-driven hero; a replay clock over the 11-day window; three audience cards (crew beyond low Earth orbit, polar flight, power grid) as bottom sheets; a timeline layer; an alert ledger; and a method and sources layer. September 2017, NOAA region 2673, 2017-09-04T00:00Z to 2017-09-15T00:00Z. No build step, no dependencies, no network requests.
+One static page: a full-bleed, data-driven hero with three audience rings; a replay clock over the 11-day window; three audience cards (crew beyond low Earth orbit, polar flight, power grid) as bottom sheets; a timeline layer; an alert ledger; and a method and sources layer. September 2017, NOAA region 2673, 2017-09-04T00:00Z to 2017-09-15T00:00Z. No build step, no dependencies, no network requests.
 
 ## Open it
 
@@ -35,6 +35,7 @@ python3 -m weather.export_web   # writes web/data/storm.json and web/data/storm.
 | 29 SWPC proton alerts and warnings, 7 issued K≥7 alerts, K≥7 warnings | **Issued products** parsed from the PRF PDFs, each with source file and product id. The pfu on a proton alert is the threshold written on the alert, not a flux. A warning's valid period is not observed K. |
 | Published thresholds (NASA SRAG 1 pfu >100 MeV, NOAA S2 100 pfu ≥10 MeV, NOAA G3 Kp 7) | **Published figures** with their source text (the NASA SRAG definition has no public link recorded; the NOAA scales link to swpc.noaa.gov). Not rules. |
 | The three sentences and the method text | The project's own text, unchanged. |
+| Audience rings (hero, one per audience; each is a button that opens its card) | **Real values, illustrative styling.** *Crew*: the >100 MeV flux at the replay time, filled on a log axis (0.01 to 100 pfu) with a marker at the published 1 pfu threshold (a dot). *Polar flight*: the ≥10 MeV flux, log axis 0.1 to 2000 pfu, marker at 100 pfu (a square). Both show the value and unit, "at or above" or "below" the threshold, and glow only at or above it; a missing sample is n/a, no fill, no glow. *Power grid*: a different kind of state, never flux: the 11-day window as a dial (one segment per day); the amber arcs are the issued K≥7 warnings' valid periods (not observed K), the ticks are the issued K≥7 alerts (white once issued at the replay time, at the time written on each alert), the dot is the replay time. The centre is the number of K≥7 alerts issued so far; the status is "alert issued" (an alert has been issued and a warning is valid, the glow state), "warning valid", "warning ended" or "none issued yet". Dose is not in any ring. |
 | Hero halo | **Illustrative.** Radius and brightness follow log₁₀ of the real flux at the replay time (≥10 MeV and >100 MeV); the rays are decoration. Labelled as a visualization on the page. |
 | Replay speed (1× = 3 storm hours per second, 4× = 12, 16× = 48) | Illustrative. No latency is measured: the files are archives. |
 
@@ -56,11 +57,12 @@ From the repository root unless noted (needs `google-chrome` on `PATH`, Node 20)
 ```
 cd space-weather && python3 -m unittest tests.test_storm tests.test_export_web
 node space-weather/web/test_contrast.js
-node --experimental-websocket space-weather/web/test_overflow.js     # 320/360/390/430/768 px, overlap, 44 px targets
+node --experimental-websocket space-weather/web/test_overflow.js     # 320 to 1024 px (and 1440), overlap, 44 px targets, nothing clipped inside a ring
+node --experimental-websocket space-weather/web/test_rings.js        # the three rings: each shows the right real value and state at 13 fixed ?h= times (recomputed from storm.json), thresholds, labels, tap/Enter/Space open the right card, 44 px, visible focus, n/a with null data, zero DOM writes when paused or hidden, reduced motion
 node --experimental-websocket space-weather/web/test_behaviour.js    # panels, focus, playback and wrap, deep links, n/a, no console errors or external requests, http /space/ subpath
 node --experimental-websocket shared/test_index_page.js              # landing page
 ```
 
 ## Screenshots
 
-`web/screenshots/`: `index-*` is the landing page; `weather-<view>-*` is each view (home, card-crew, card-polar, card-grid, timeline, alerts, method), each at `desktop-1440x900`, `mobile-390x844` and `mobile-360x740`. The replay is paused at a fixed time (`?h=`) for each shot.
+`web/screenshots/`: `index-*` is the landing page; `weather-<view>-*` is each view (home, rings-storm, card-crew, card-polar, card-grid, timeline, alerts, method), each at `desktop-1440x900`, `mobile-390x844` and `mobile-360x740`. The replay is paused at a fixed time (`?h=`) for each shot: `weather-home-*` is h=100 (polar ring and grid ring lit, crew below its threshold), `weather-rings-storm-*` is h=170 (crew and polar both lit, the K≥7 warning over). No time in this storm has all three lit: the grid alerts end at hour 112 and the proton storm crosses 1 pfu at hour 160.
